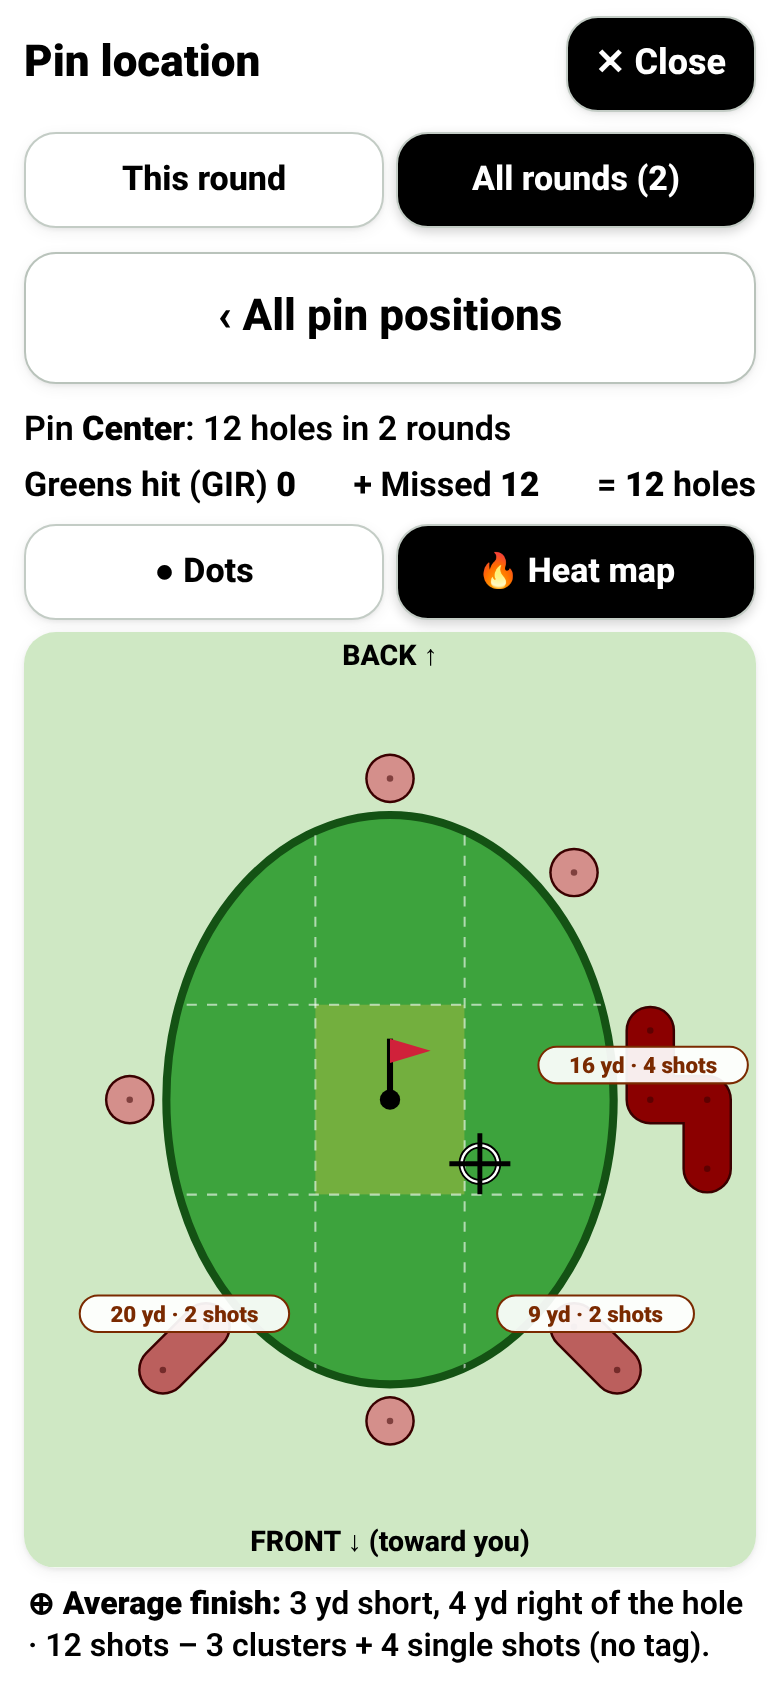
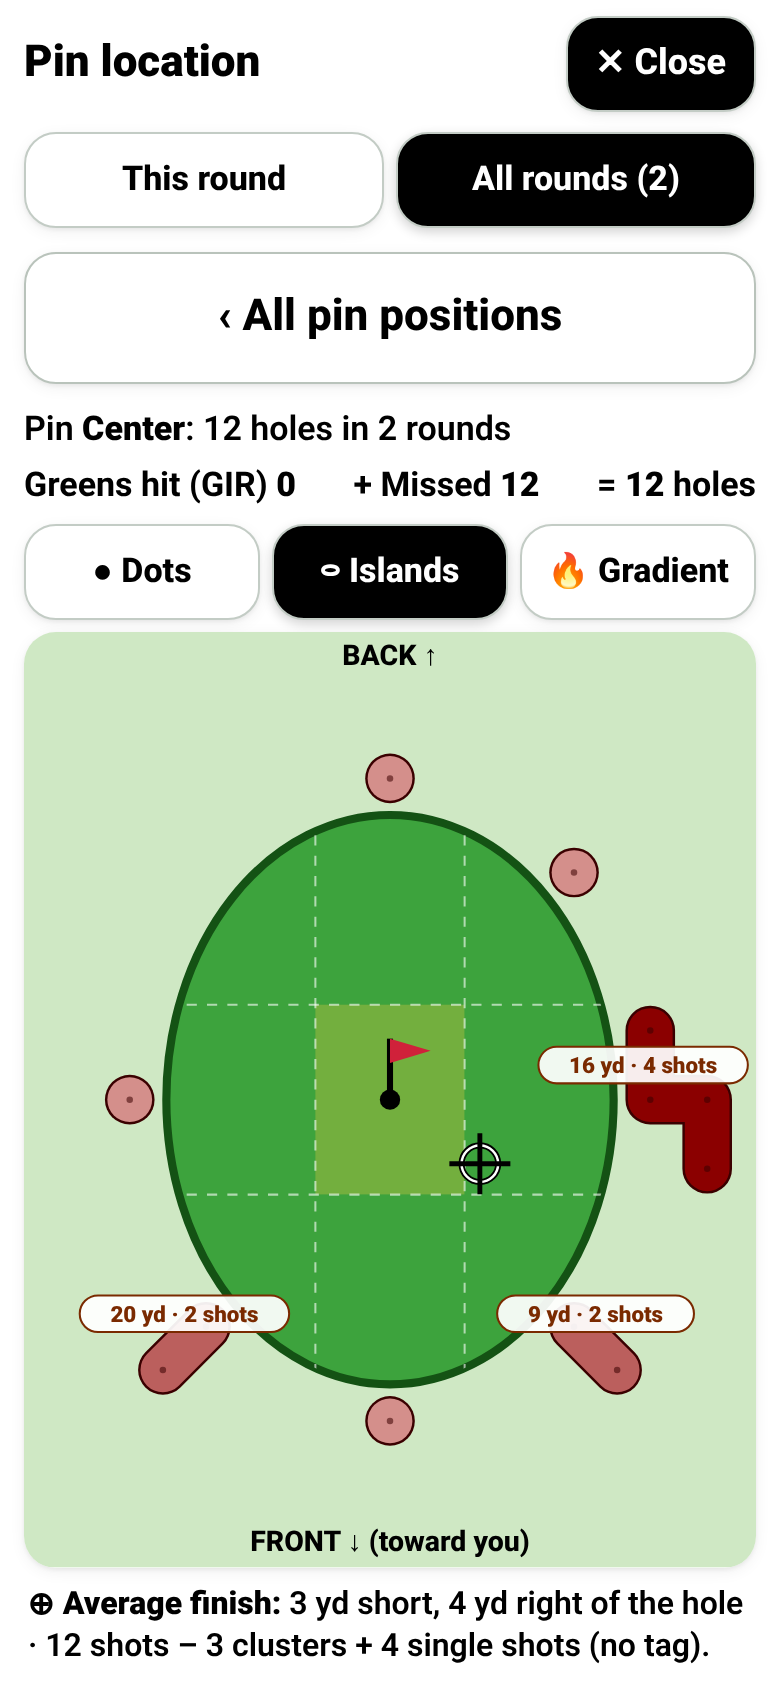
v56: heat-map 3-way toggle Dots/Islands/Gradient; rainbow kernel-density gradient with hot-spot tags

Changed region(s): [[0.1538, 0.3081, 0.5846, 0.3697], [0.6154, 0.3081, 0.9846, 0.3697]]

diff --git a/app.js b/app.js
@@ -1188,6 +1188,35 @@
     return '<path class="hedge" d="' + path + '" fill="transparent" stroke="#3a0000" stroke-width="' + f1(2 * R + 2.4) + '" stroke-linecap="round" stroke-linejoin="round"/>' +
       '<path class="hfill" d="' + path + '" fill="transparent" stroke="' + col + '" stroke-width="' + f1(2 * R) + '" stroke-linecap="round" stroke-linejoin="round"/>';
   }
+  // Continuous density (Gaussian kernel, sigma 13 px) painted to a canvas and embedded as an image: clear where
+  // there are no shots, light -> dark red with density. Hot-spot tags at local density peaks (>= 30% of the max).
+  function heatGradient(svg, pts) {
+    var vb = svg.viewBox.baseVal, W = vb.width, H = vb.height, S = 3, gw = Math.ceil(W / S), gh = Math.ceil(H / S), sig = 16, D = new Float32Array(gw * gh), mx = 0;
+    for (var y = 0; y < gh; y++) for (var x = 0; x < gw; x++) { var v = 0, px = x * S + S / 2, py = y * S + S / 2;
+      for (var i = 0; i < pts.length; i++) { var dx = px - pts[i].x, dy = py - pts[i].y, q = dx * dx + dy * dy; if (q < 9 * sig * sig) v += Math.exp(-q / (2 * sig * sig)); }
+      D[y * gw + x] = v; if (v > mx) mx = v; }
+    var cv = document.createElement('canvas'); cv.width = gw; cv.height = gh; var cx = cv.getContext('2d'), im = cx.createImageData(gw, gh);
+    // classic click-heat-map ramp: transparent -> blue -> cyan -> green -> yellow -> orange -> red (densest)
+    var RB = [[0, [0, 0, 255]], [0.12, [0, 60, 255]], [0.3, [0, 220, 255]], [0.5, [0, 230, 60]], [0.68, [255, 240, 0]], [0.84, [255, 140, 0]], [1, [230, 0, 0]]];
+    for (var k = 0; k < D.length; k++) { var t = mx ? D[k] / mx : 0, a = t < 0.02 ? 0 : Math.min(0.78, 0.18 + t * 0.75) * Math.min(1, t / 0.08), j = 1;
+      while (j < RB.length - 1 && t > RB[j][0]) j++; var u = Math.max(0, Math.min(1, (t - RB[j - 1][0]) / (RB[j][0] - RB[j - 1][0])));
+      for (var ch = 0; ch < 3; ch++) im.data[k * 4 + ch] = Math.round(RB[j - 1][1][ch] + (RB[j][1][ch] - RB[j - 1][1][ch]) * u); im.data[k * 4 + 3] = Math.round(a * 255); }
+    cx.putImageData(im, 0, 0);
+    var o = '<image id="heatgrad" href="' + cv.toDataURL('image/png') + '" x="0" y="0" width="' + W + '" height="' + H + '" preserveAspectRatio="none"/>';
+    var peaks = [];
+    for (y = 1; y < gh - 1; y++) for (x = 1; x < gw - 1; x++) { var c = D[y * gw + x]; if (c < 0.3 * mx) continue; var top = true;
+      for (var yy = -4; yy <= 4 && top; yy++) for (var xx = -4; xx <= 4; xx++) { var Y = y + yy, X = x + xx; if ((yy || xx) && Y >= 0 && X >= 0 && Y < gh && X < gw && D[Y * gw + X] > c) { top = false; break; } }
+      if (top) peaks.push([x * S + S / 2, y * S + S / 2, c]); }
+    peaks.sort(function (a, b) { return b[2] - a[2]; }); peaks = peaks.slice(0, 6);
+    var boxes = [], n = 0;
+    peaks.forEach(function (p) { var near = pts.filter(function (q) { return Math.hypot(q.x - p[0], q.y - p[1]) <= 2 * sig; }); if (near.length < 2) return; n++;
+      var t = heatFmt(near) + ' · ' + near.length + ' shots', w = t.length * 6.2 + 10, x0 = Math.max(4, Math.min(W - 4 - w, p[0] - w / 2)), y0 = p[1] - 32;
+      for (var k2 = 0; k2 < 6 && boxes.some(function (b) { return x0 < b[2] && x0 + w > b[0] && y0 < b[3] && y0 + 18 > b[1]; }); k2++) y0 += 22;
+      if (y0 < 4) y0 = p[1] + 14; boxes.push([x0, y0, x0 + w, y0 + 18]);
+      o += '<g class="hotspot" data-n="' + near.length + '"><circle cx="' + f1(p[0]) + '" cy="' + f1(p[1]) + '" r="2.5" fill="#fff" stroke="#3a0000"/><rect x="' + f1(x0) + '" y="' + f1(y0) + '" width="' + f1(w) + '" height="18" rx="9" fill="#fff" fill-opacity=".93" stroke="#7a2a00"/>' +
+        '<text x="' + f1(x0 + w / 2) + '" y="' + f1(y0 + 13) + '" text-anchor="middle" font-size="11" font-weight="900" fill="#7a2a00">' + esc(t) + '</text></g>'; });
+    return { svg: o, peaks: n };
+  }
   function heatIslands(pts, link) {
     var id = pts.map(function (_, i) { return i; }), find = function (i) { while (id[i] !== i) i = id[i] = id[id[i]]; return i; };
     for (var i = 0; i < pts.length; i++) for (var j = i + 1; j < pts.length; j++) if (Math.hypot(pts[i].x - pts[j].x, pts[i].y - pts[j].y) <= link) id[find(i)] = find(j);
@@ -1206,23 +1235,25 @@
       var k = (e.getAttribute('data-kind') || '') + (e.getAttribute('data-class') || ''); if (/nodir/.test(k)) return;
       var b = e.getBBox(); pts.push({ x: b.x + b.width / 2, y: b.y + b.height / 2, d: +e.getAttribute('data-hd') || 0, u: e.getAttribute('data-hu') || 'ft' });
     });
-    var auto = (view.mapScope === 'all' && rounds.length > 1) || pts.length > 15, on = view.heat == null ? auto : view.heat;
+    var multi = view.mapScope === 'all' && rounds.length > 1, mode = view.heat || (multi ? 'grad' : pts.length > 15 ? 'isl' : 'dots'), on = mode !== 'dots';
     var tg = document.createElement('div'); tg.className = 'seg heattog'; tg.id = 'heattog';
-    tg.innerHTML = '<button data-act="heat" data-v="0" class="' + (on ? '' : 'sel') + '" aria-pressed="' + !on + '">● Dots</button><button data-act="heat" data-v="1" class="' + (on ? 'sel' : '') + '" aria-pressed="' + on + '"' + (pts.length ? '' : ' disabled') + '>🔥 Heat map</button>';
+    tg.innerHTML = [['dots', '● Dots'], ['isl', '⬭ Islands'], ['grad', '🔥 Gradient']].map(function (b) { return '<button data-act="heat" data-v="' + b[0] + '" class="' + (mode === b[0] ? 'sel' : '') + '" aria-pressed="' + (mode === b[0]) + '"' + (pts.length || b[0] === 'dots' ? '' : ' disabled') + '>' + b[1] + '</button>'; }).join('');
     var anc = svg; while (anc.parentNode && anc.parentNode !== mv) anc = anc.parentNode;
     anc.parentNode.insertBefore(tg, anc);
     if (!on || !pts.length) return;
     svg.classList.add('heat');
     var h = '';
     // blobs are drawn per island below (after islands are known)
-    var isl = heatIslandsReal(pts, heatReal(pts, C)), boxes = [];
+    var isl = heatIslandsReal(pts, heatReal(pts, C)), boxes = [], lone = 0, tagged = 0;
+    if (mode === 'grad') { var GR = heatGradient(svg, pts); h += GR.svg; isl = []; tagged = GR.peaks; }
+    else {
     // one red ramp, light -> dark by the island's share of all shots; crisp thin border around each island (union of discs)
     var ramp = function (t) { var a = [253, 224, 218], b = [139, 0, 0]; return 'rgb(' + a.map(function (v, i) { return Math.round(v + (b[i] - v) * t); }).join(',') + ')'; };
     var maxShare = Math.max.apply(null, isl.map(function (g) { return g.length; })) / pts.length;
     isl.forEach(function (g) { var share = g.length / pts.length, t = maxShare > 0 ? Math.min(1, 0.15 + 0.85 * share / maxShare) : 1, col = ramp(t);
       h += '<g class="hisland" data-n="' + g.length + '" data-share="' + share.toFixed(3) + '" data-col="' + col + '">' +
         islandShape(g, col) + g.map(function (p) { return '<circle class="hblob" cx="' + f1(p.x) + '" cy="' + f1(p.y) + '" r="1.6" fill="#3a0000" fill-opacity=".55"/>'; }).join('') + '</g>'; });
-    var lone = isl.filter(function (g) { return g.length === 1; }).length, tagged = isl.length - lone;
+    lone = isl.filter(function (g) { return g.length === 1; }).length; tagged = isl.length - lone;
     isl.forEach(function (g, i) {
       if (g.length === 1 && tagged) { h += '<g class="island lone" data-n="1"></g>'; return; }
       var mx = g.reduce(function (a, p) { return a + p.x; }, 0) / g.length, top = g.reduce(function (a, p) { return a + p.y; }, 0) / g.length + 8;
@@ -1232,6 +1263,7 @@
       h += '<g class="island" data-n="' + g.length + '"><rect x="' + f1(x) + '" y="' + f1(y) + '" width="' + f1(w) + '" height="18" rx="9" fill="#fff" fill-opacity=".93" stroke="#7a2a00"/>' +
         '<text x="' + f1(x + w / 2) + '" y="' + f1(y + 13) + '" text-anchor="middle" font-size="11" font-weight="900" fill="#7a2a00">' + esc(t) + '</text></g>';
     });
+    }
     // average finish (all plotted shots): pixel mean for the marker, real distances for the words
     var ax = 0, ay = 0, lr = 0, lg = 0, yd = pts.every(function (p) { return p.u === 'yd'; });
     pts.forEach(function (p) { ax += p.x; ay += p.y; var dx = p.x - C[0], dy = C[1] - p.y, L = Math.hypot(dx, dy) || 1, d = yd ? p.d : p.u === 'yd' ? p.d * 3 : p.d; lr += d * dx / L; lg += d * dy / L; });
@@ -1242,10 +1274,10 @@
     var U = yd ? ' yd' : ' ft', part = function (v, a, b) { return Math.round(Math.abs(v)) ? Math.round(Math.abs(v)) + U + ' ' + (v > 0 ? a : b) : ''; };
     var words = [part(lg, 'long', 'short'), part(lr, 'right', 'left')].filter(Boolean).join(', ');
     var sm = document.createElement('p'); sm.className = 'heatsum'; sm.id = 'heatsum';
-    sm.innerHTML = '<b>⊕ Average ' + (view.map === 'putt' ? 'putt start' : 'finish') + ':</b> ' + (words ? words + ' of the hole' : 'centred on the hole') + ' · ' + pts.length + ' shot' + (pts.length === 1 ? '' : 's') + (tagged > 1 || (tagged && lone) ? ' – ' + tagged + ' cluster' + (tagged === 1 ? '' : 's') + (lone ? ' + ' + lone + ' single shot' + (lone === 1 ? '' : 's') + ' (no tag)' : '') : '') + '.';
+    sm.innerHTML = '<b>⊕ Average ' + (view.map === 'putt' ? 'putt start' : 'finish') + ':</b> ' + (words ? words + ' of the hole' : 'centred on the hole') + ' · ' + pts.length + ' shot' + (pts.length === 1 ? '' : 's') + (mode === 'grad' ? (tagged ? ' – ' + tagged + ' hot spot' + (tagged === 1 ? '' : 's') : '') : tagged > 1 || (tagged && lone) ? ' – ' + tagged + ' cluster' + (tagged === 1 ? '' : 's') + (lone ? ' + ' + lone + ' single shot' + (lone === 1 ? '' : 's') + ' (no tag)' : '') : '') + '.';
     anc.parentNode.insertBefore(sm, anc.nextSibling);
     var lg2 = document.createElement('p'); lg2.className = 'help heatnote'; lg2.id = 'heatnote';
-    lg2.innerHTML = '<span class="ramp" aria-hidden="true"></span> Heat map: each island is shaded by its share of the shots – light = few, dark red = most. Each white tag is one cluster – shots within 3 ft of each other (3 yd off the green), clusters less than 2 ft apart merged – with its average distance to the hole · number of shots. Single, isolated shots get no tag. ⊕ = average finish of all shots shown. Shots with no direction entered are left out.';
+    lg2.innerHTML = mode === 'grad' ? '<span class="ramp rainbow" aria-hidden="true"></span> Gradient: a smooth density map of where the shots finished – clear = none, blue = a few, then green, yellow, red = most. White tags mark the hot spots (average distance to the hole · shots nearby). ⊕ = average finish of all shots shown. Shots with no direction entered are left out.' : '<span class="ramp" aria-hidden="true"></span> Islands: each island is shaded by its share of the shots – light = few, dark red = most. Each white tag is one cluster – shots within 3 ft of each other (3 yd off the green), clusters less than 2 ft apart merged – with its average distance to the hole · number of shots. Single, isolated shots get no tag. ⊕ = average finish of all shots shown. Shots with no direction entered are left out.';
     sm.parentNode.insertBefore(lg2, sm.nextSibling);
   }
   // ---------- Club performance (app only): everything from where the ball FINISHED (next row's distance + direction) ----------
@@ -1993,7 +2025,7 @@
       case 'cmpkind': view.cmpKind = v; render(); return;
       case 'cmpgrp': view.cmpGrp = v; render(); return;
       case 'cmpov': view.cmpOverlay = v === '1'; render(); return;
-      case 'heat': view.heat = v === '1'; render(); return;
+      case 'heat': view.heat = v; render(); return;
       case 'replay': view.replay = Math.max(0, +v || 0); render(); return;
       case 'rpgreen': view.rpGreen = true; render(); return;
       case 'rpgreenback': view.rpGreen = false; render(); return;

diff --git a/tests/heat-focused.js b/tests/heat-focused.js
@@ -28,6 +28,11 @@ const BASE = process.env.BASE_URL || 'http://127.0.0.1:8774/', OUT = '/workspace
     await page.waitForSelector('#heattog');
     if (m === 'prox') { const all = await page.$('[data-act="proxb"][data-v="all"]'); if (all) await all.click(); await page.waitForSelector('#heattog'); }
     if (m === 'pmiss') { await page.waitForSelector('#heattog'); }
+    const gr = await page.evaluate(() => ({ img: !!document.querySelector('#mapview svg.heat #heatgrad'), hs: [...document.querySelectorAll('#mapview .hotspot text')].map(t => t.textContent), avg: !!document.querySelector('#heatavg'), sel: document.querySelector('#heattog .sel').dataset.v }));
+    assert.ok(gr.img && gr.avg && gr.sel === 'grad', m + ' gradient by default for multi-round ' + JSON.stringify(gr));
+    assert.ok(gr.hs.every(t => /^\d+ (ft|yd) · \d+ shots$/.test(t)), m + ' hot-spot tags ' + gr.hs);
+    await page.locator('#heattog').scrollIntoViewIfNeeded(); await page.screenshot({ path: OUT + 'heatmap-gradient-' + m + '.png' });
+    await page.click('[data-act="heat"][data-v="isl"]');
     const st = await page.evaluate(() => { const s = document.querySelector('#mapview svg.heat'); if (!s) return null;
       return { blobs: s.querySelectorAll('.hblob').length, isl: [...s.querySelectorAll('.island')].map(g => +g.dataset.n), lbl: [...s.querySelectorAll('.island text')].map(t => t.textContent), avg: !!s.querySelector('#heatavg'), sum: document.getElementById('heatsum').textContent }; });
     assert.ok(st, m + ': heat map on automatically for 2 rounds');
@@ -39,9 +44,9 @@ const BASE = process.env.BASE_URL || 'http://127.0.0.1:8774/', OUT = '/workspace
     assert.ok(st.avg && /Average (finish|putt start)/.test(st.sum), m + ' centroid');
     console.log(m, st.blobs, 'shots', st.isl.length, 'islands', st.sum);
     await page.locator('#heattog').scrollIntoViewIfNeeded(); await page.screenshot({ path: OUT + 'heatmap-' + m + '.png' });
-    await page.click('[data-act="heat"][data-v="0"]'); assert.strictEqual(await page.$('#mapview svg.heat'), null, m + ' toggles back to dots');
+    await page.click('[data-act="heat"][data-v="dots"]'); assert.strictEqual(await page.$('#mapview svg.heat'), null, m + ' toggles back to dots');
     if (m === 'gir') { await page.locator('#heattog').scrollIntoViewIfNeeded(); await page.screenshot({ path: OUT + 'heatmap-gir-dots.png' }); }
-    await page.click('[data-act="heat"][data-v="1"]'); assert.ok(await page.$('#mapview svg.heat'));
+    await page.click('[data-act="heat"][data-v="isl"]'); assert.ok(await page.$('#mapview svg.heat'));
     await page.click('[data-act="mapscope"][data-v="round"]');
     const one = await page.evaluate(() => [document.querySelectorAll('#mapview svg [data-hd]').length, !!document.querySelector('#mapview svg.heat')]);
     if (one[0] <= 15) assert.strictEqual(one[1], false, m + ' single round with few shots stays dots');

diff --git a/tests/focused.js b/tests/focused.js
@@ -147,7 +147,7 @@ const BASE = process.env.BASE_URL || 'http://127.0.0.1:8765/', SHOTS = process.e
   await page.screenshot({ path: SHOTS + '/37b-putting-2nd.png' });
   console.log('✓ 2nd putts: 10 ft close-up (linear, rings 1-10), 14 ft on edge with ›, row Dir used, no overlapping dots; 3rd+ greyed out (none this round)');
   await page.click('[data-act="mapscope"][data-v="all"]'); await page.click('#puttbtns [data-v="1"]');
-  if (await page.$('#mapview svg.heat')) await page.click('[data-act="heat"][data-v="0"]'); // 2 rounds -> heat map by default; check the dots
+  if (await page.$('#mapview svg.heat')) await page.click('[data-act="heat"][data-v="dots"]'); // 2 rounds -> heat map by default; check the dots
   await page.click('#puttbtns [data-v="2"]'); const n2 = await noOverlap('All 2nd'); await page.screenshot({ path: SHOTS + '/37c-putting-2nd-all.png' }); await page.click('#puttbtns [data-v="1"]');
   const allExp = await page.evaluate(() => { const c = { 1: 0, 2: 0, 3: 0 }; window.__golf.rounds().forEach(r => SG.summarize(r).puttList.forEach(p => c[SG.puttGroup(p.n)]++)); return c; });
   const pbAll = await page.$$eval('#puttbtns .pnbtn', bs => bs.map(b => [+b.getAttribute('data-n'), b.disabled]));

diff --git a/tests/clubperf-focused.js b/tests/clubperf-focused.js
@@ -42,7 +42,7 @@ const BASE = process.env.BASE_URL || 'http://127.0.0.1:8775/', OUT = '/workspace
   assert.match(await page.textContent('#clubbias'), /7i finishes \d+ yd short on average/);
   if (ns > 15) assert.ok(await page.$('#clubmap.heat'), 'heat map when many');
   await page.evaluate(() => document.getElementById('mapview').scrollTop = 0); await page.screenshot({ path: OUT + 'club-dispersion-heat.png' });
-  await page.click('[data-act="heat"][data-v="0"]'); await page.screenshot({ path: OUT + 'club-dispersion-dots.png' });
+  await page.click('[data-act="heat"][data-v="dots"]'); await page.screenshot({ path: OUT + 'club-dispersion-dots.png' });
   await page.locator('#clubrank').scrollIntoViewIfNeeded(); await page.screenshot({ path: OUT + 'club-sg-ranking.png' });
   await page.locator('#clubrank tr[data-v="9i"]').click(); assert.strictEqual(await page.textContent('#clubcur'), '9i');
   assert.deepStrictEqual(errors, []); console.log('CLUBPERF OK', JSON.stringify(rank)); await b.close(); if (srv) srv.kill();

diff --git a/styles.css b/styles.css
@@ -384,3 +384,4 @@ svg.heat path[fill="none"] { opacity: .12; }
 .cmphide svg { width: 360px; }
 .gaptable td.gap { font-size: 16px; }
 #cmplegend .ramp, .heatnote .ramp { display: inline-block; width: 60px; height: 12px; border-radius: 6px; vertical-align: middle; border: 1px solid #3a0000; background: linear-gradient(90deg, rgb(253,224,218), rgb(139,0,0)); }
+.heatnote .ramp.rainbow { border-color: #333; background: linear-gradient(90deg, rgba(0,0,255,.5), #00dcff, #00e63c, #fff000, #ff8c00, #e60000); }

diff --git a/sw.js b/sw.js
@@ -1,5 +1,5 @@
 // Offline support: cache the whole app on install, serve cache-first.
-const CACHE = 'golf-sg-v55';
+const CACHE = 'golf-sg-v56';
 const ASSETS = ['./', './index.html', './styles.css', './sg.js', './app.js', './config.js', './onedrive.js', './vendor/msal-browser.min.js', './vendor/jspdf.umd.min.js',
   './manifest.webmanifest', './icons/apple-touch-icon.png', './icons/icon-192.png',
   './icons/icon-512.png', './icons/icon-512-maskable.png'];
